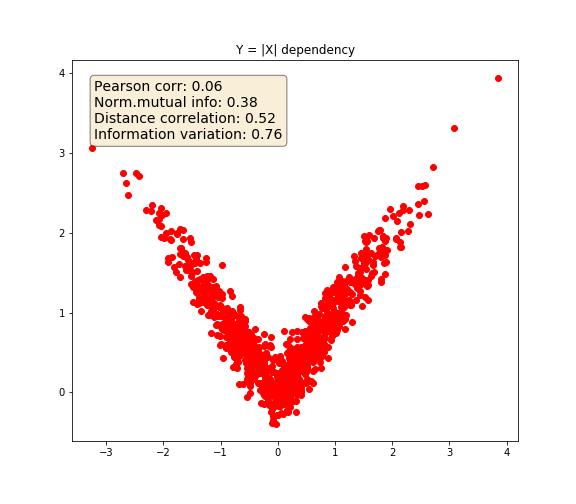
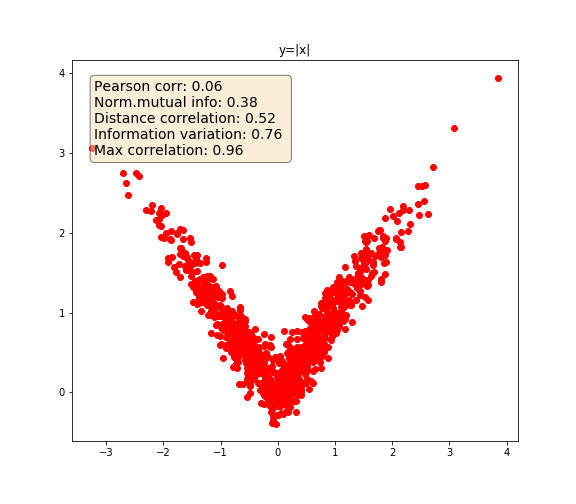
Update read-the-docs with max-corr images

Changed region(s): [[0.1562, 0.1488, 0.5312, 0.3274], [0.4062, 0.0893, 0.625, 0.119]]

diff --git a/docs/source/implementations/codependence.rst b/docs/source/implementations/codependence.rst
@@ -77,7 +77,19 @@ Let's see how various metrics work for different variable dependencies:
 
     import numpy as np
     import matplotlib.pyplot as plt
+    from ace import model # ace package is used for max correlation estimation
     from mlfinlab.codependece import distance_correlation, get_mutual_info, variation_of_information_score
+
+    def max_correlation(x: np.array, y: np.array) -> float:
+        """
+        Get max correlation using ace package.
+        """
+
+        x_input = [x]
+        y_input = y
+        ace_model = model.Model()
+        ace_model.build_model_from_xy(x_input, y_input)
+        return np.corrcoef(ace_model.ace.x_transforms[0], ace_model.ace.y_transform)[0][1]
 
     state = np.random.RandomState(42)
     x = state.normal(size=1000)
@@ -87,8 +99,8 @@ Let's see how various metrics work for different variable dependencies:
     y_4 = np.random.RandomState(0).normal(size=1000) * np.random.RandomState(5).normal(size=1000) # independent
 
     for y, dependency in zip([y_1, y_2, y_3, y_4], ['linear', 'squared', 'y=|x|', 'independent']):
-        text = 'Pearson corr: {:0.2f} \nNorm.mutual info: {:0.2f}\nDistance correlation: {:0.2f} \nInformation variation: {:0.2f}'.format(
-        np.corrcoef(x, y)[0, 1], get_mutual_info(x, y, normalize=True), distance_correlation(x, y), variation_of_information_score(x, y, normalize=True))
+        text = 'Pearson corr: {:0.2f} \nNorm.mutual info: {:0.2f}\nDistance correlation: {:0.2f} \nInformation variation: {:0.2f} \nMax correlation: {:0.2f}'.format(
+        np.corrcoef(x, y)[0, 1], get_mutual_info(x, y, normalize=True), distance_correlation(x, y), variation_of_information_score(x, y, normalize=True), max_correlation(x, y))
 
         fig, ax = plt.subplots(figsize=(8,7))
         props = dict(boxstyle='round', facecolor='wheat', alpha=0.5)
@@ -96,6 +108,6 @@ Let's see how various metrics work for different variable dependencies:
                 verticalalignment='top', bbox=props)
         plt.title(dependency)
         ax.plot(x, y, 'ro')
-        plt.show()
+        plt.savefig('{}.png'.format(dependency))
 
 ::
